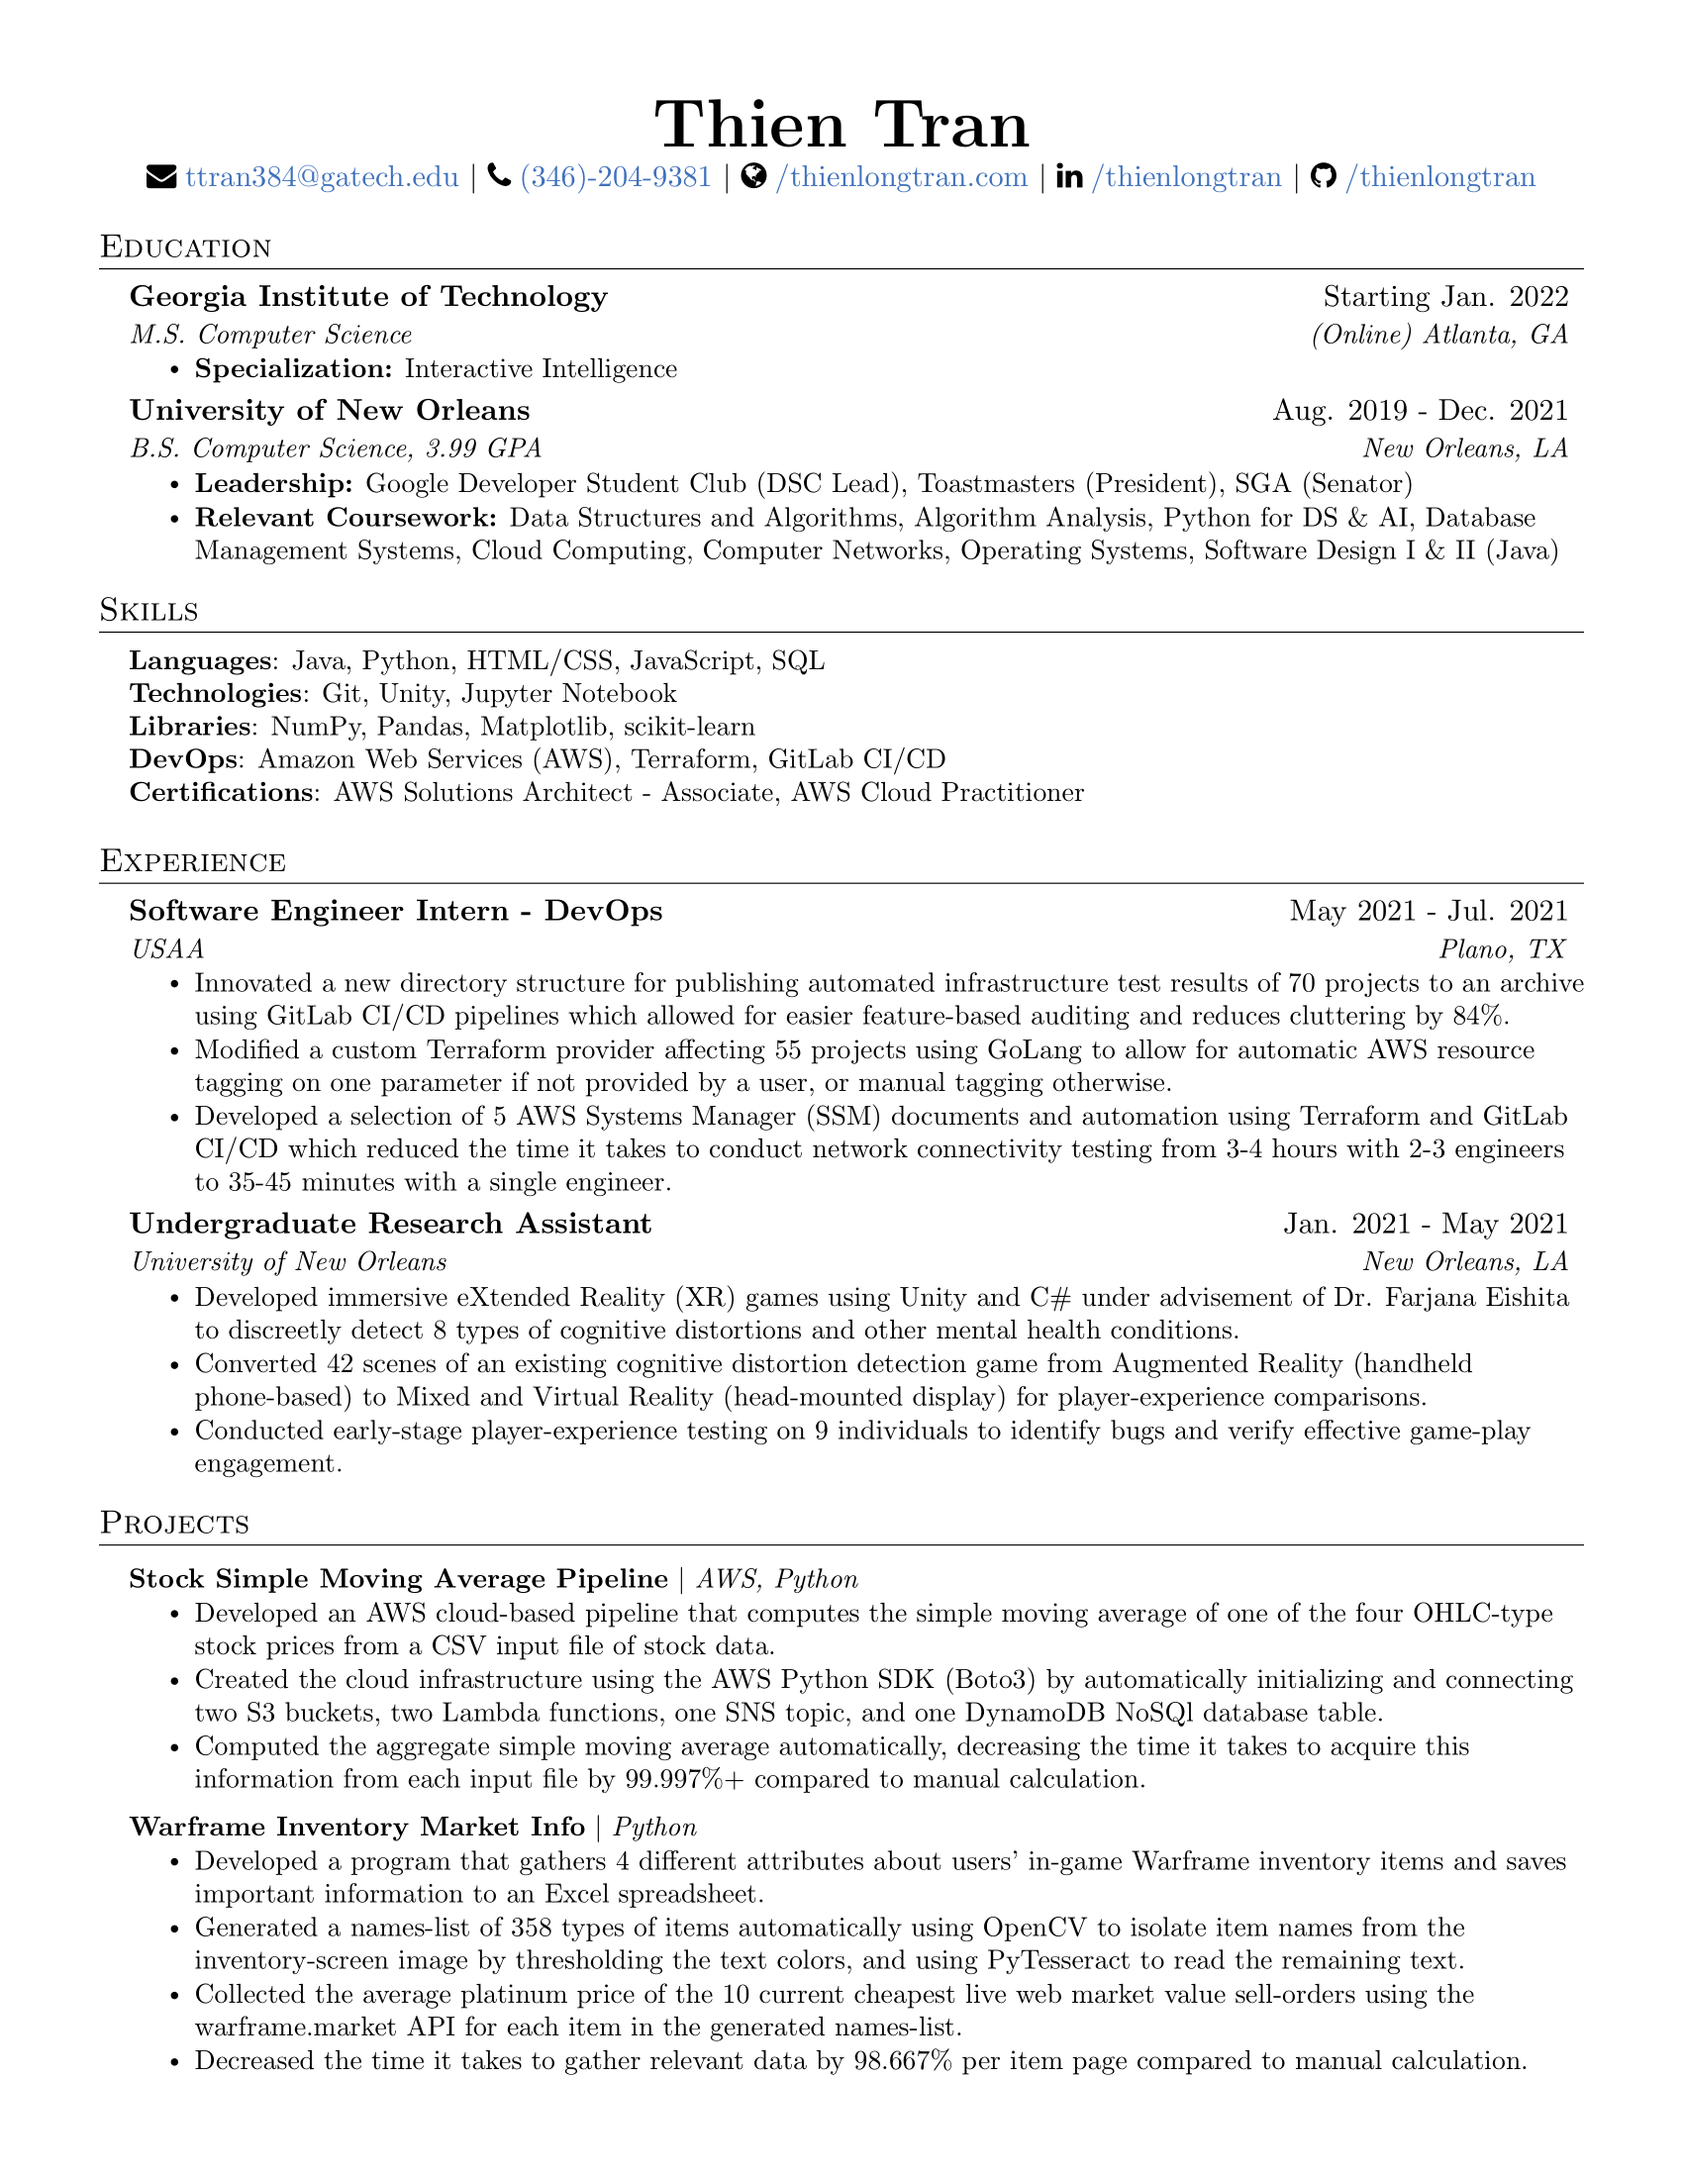
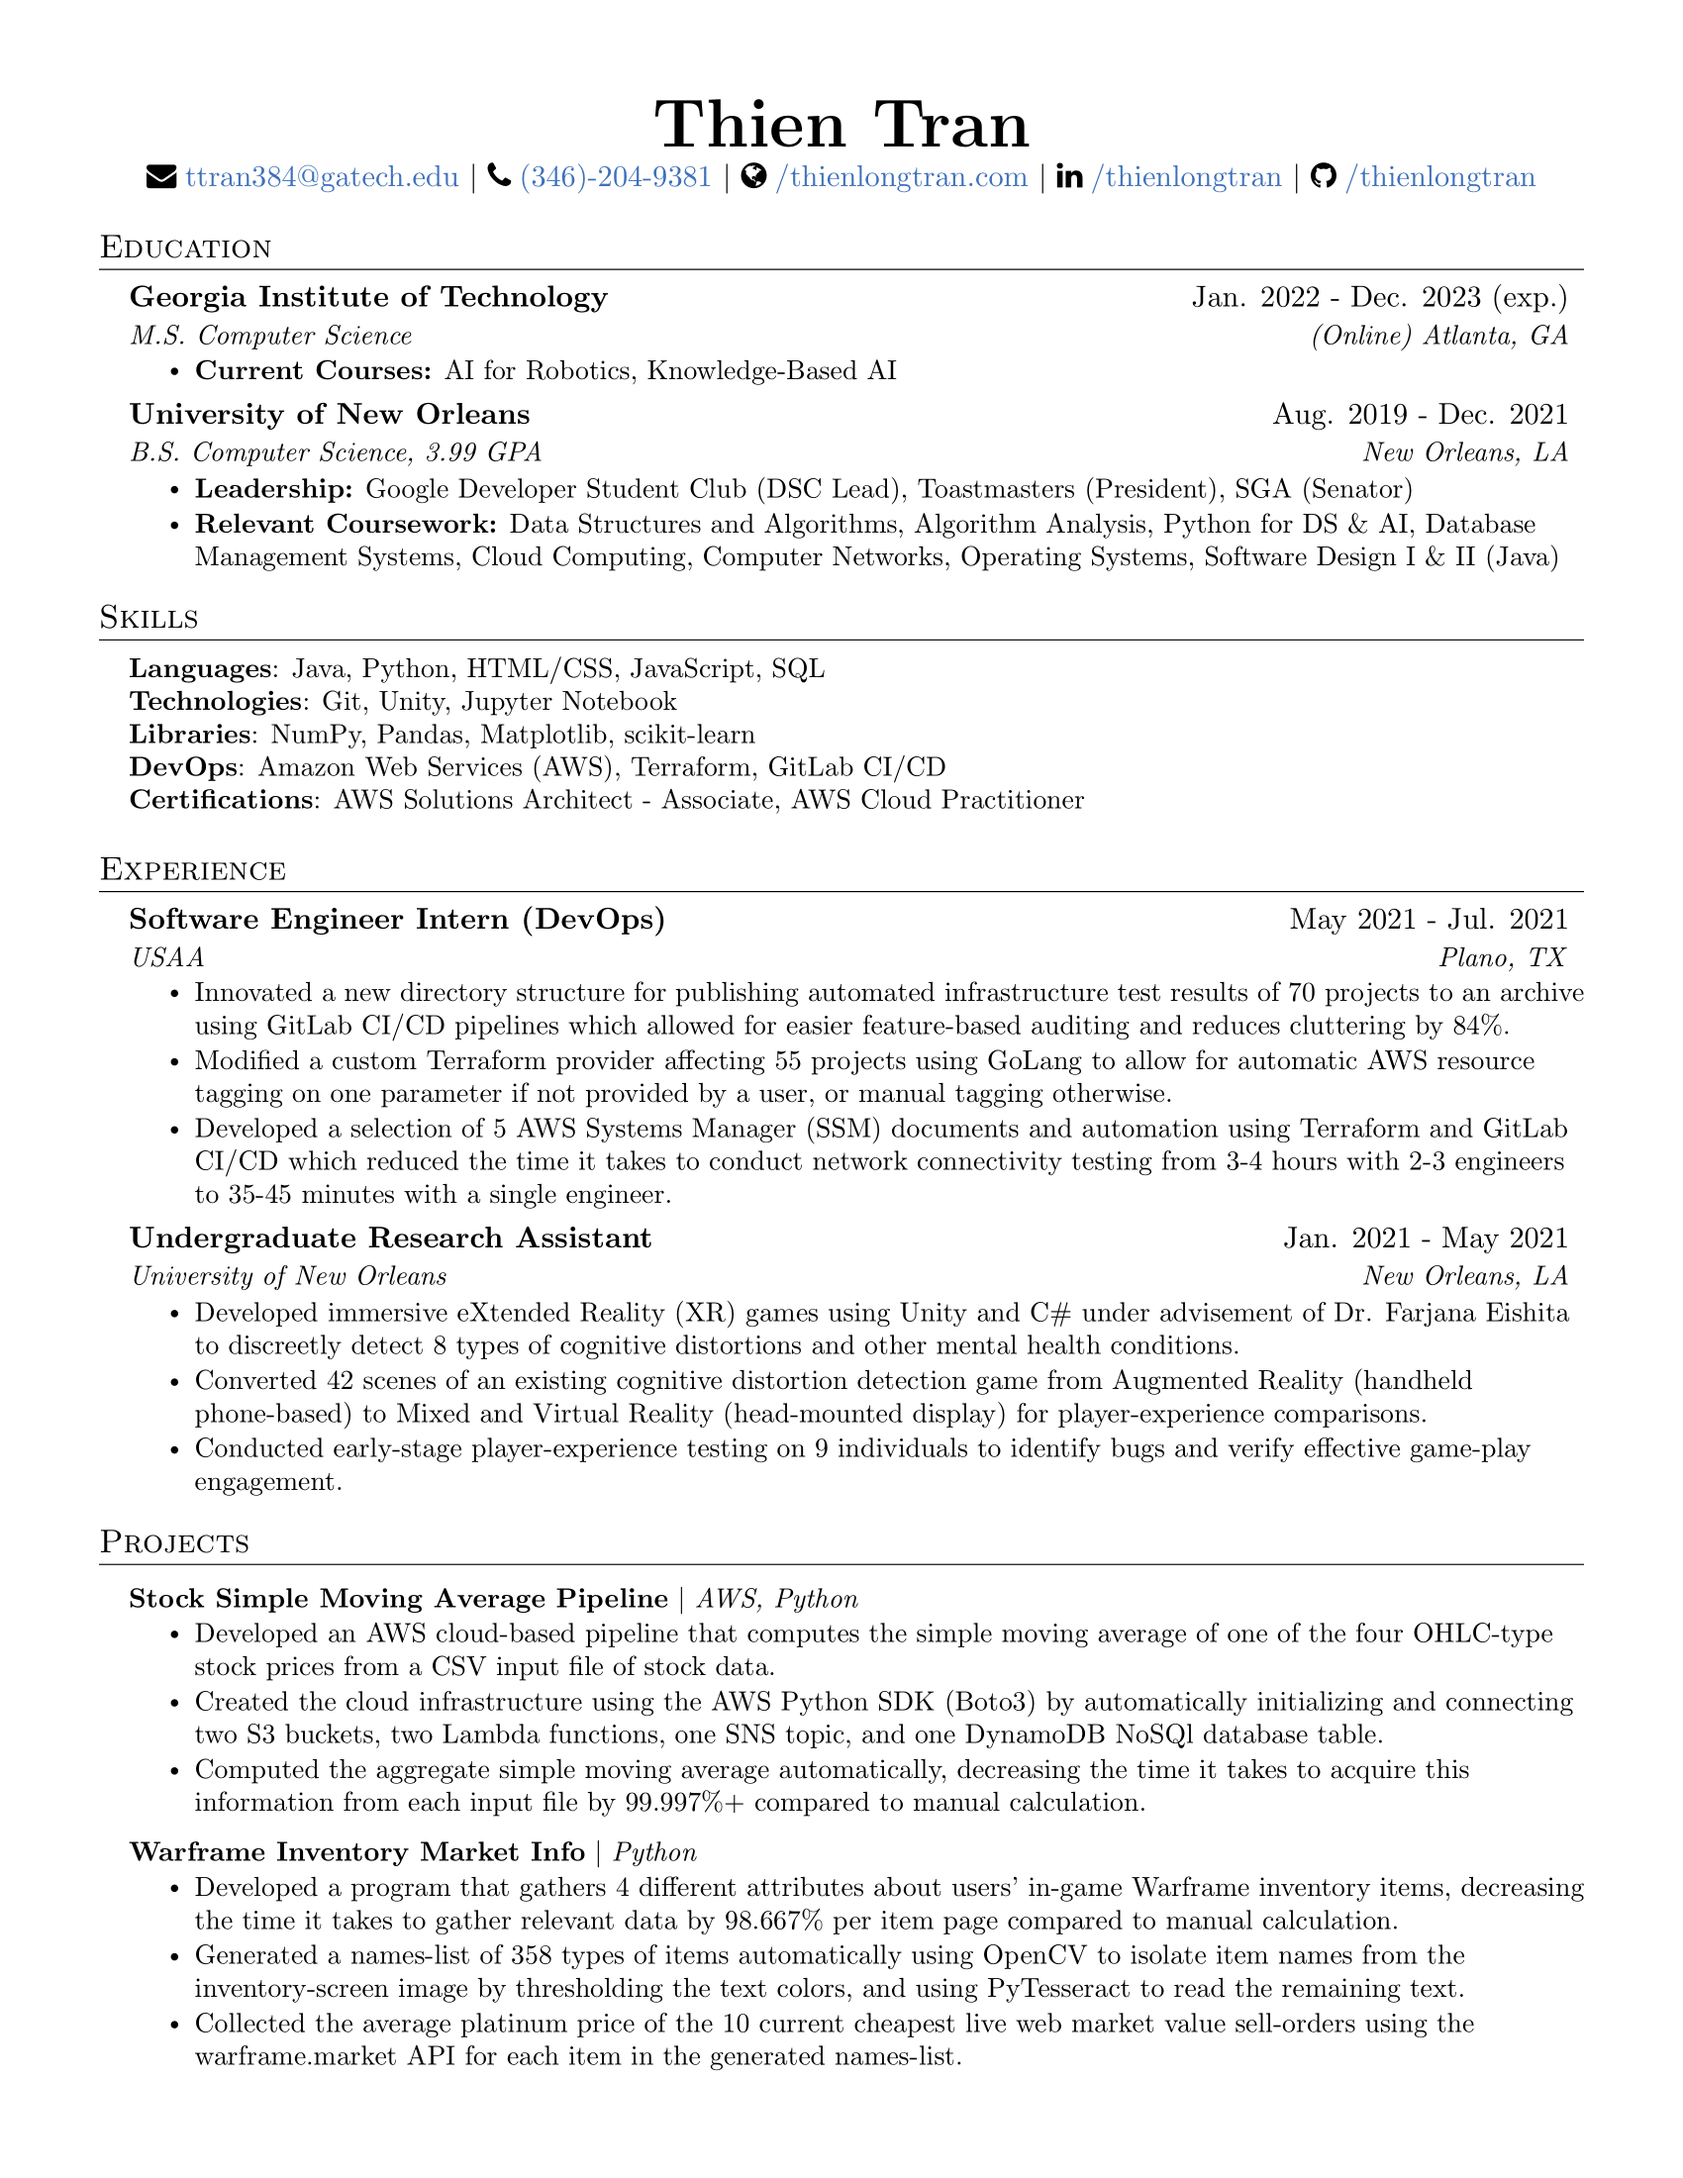
Updated resume

diff --git a/resume.tex b/resume.tex
@@ -161,10 +161,11 @@
 \section{Education}
   \resumeSubHeadingListStart
     \resumeSubheading
-      {Georgia Institute of Technology}{Starting Jan. 2022}
+      {Georgia Institute of Technology}{Jan. 2022 - Dec. 2023 (exp.)}
       {M.S. Computer Science}{(Online) Atlanta, GA}
       \resumeItemListStart
-        \resumeItem{\textbf{Specialization:} Interactive Intelligence}
+        \resumeItem{\textbf{Current Courses:} AI for Robotics, Knowledge-Based AI}
+        
       \resumeItemListEnd
     \resumeSubheading
       {University of New Orleans}{Aug. 2019 - Dec. 2021}
@@ -195,7 +196,7 @@
   \resumeSubHeadingListStart
     
     \resumeSubheading
-      {Software Engineer Intern - DevOps}{May 2021 - Jul. 2021}
+      {Software Engineer Intern (DevOps)}{May 2021 - Jul. 2021}
       {USAA}{Plano, TX}
     \resumeItemListStart
       \resumeItem {Innovated a new directory structure for publishing automated infrastructure test results of 70 projects to an archive using GitLab CI/CD pipelines which allowed for easier feature-based auditing and reduces cluttering by 84\%.}
@@ -238,10 +239,9 @@
       \resumeProjectHeading
           {\textbf{Warframe Inventory Market Info} $|$ \emph{Python}}{}
           \resumeItemListStart
-            \resumeItem{Developed a program that gathers 4 different attributes about users’ in-game Warframe inventory items and saves important information to an Excel spreadsheet.}
+            \resumeItem{Developed a program that gathers 4 different attributes about users’ in-game Warframe inventory items, decreasing the time it takes to gather relevant data by 98.667\% per item page compared to manual calculation.}
             \resumeItem{Generated a names-list of 358 types of items automatically using OpenCV to isolate item names from the inventory-screen image by thresholding the text colors, and using PyTesseract to read the remaining text.}
             \resumeItem{Collected the average platinum price of the 10 current cheapest live web market value sell-orders using the warframe.market API for each item in the generated names-list.}
-            \resumeItem{Decreased the time it takes to gather relevant data by 98.667\% per item page compared to manual calculation.}
           \resumeItemListEnd
     \resumeSubHeadingListEnd
 
